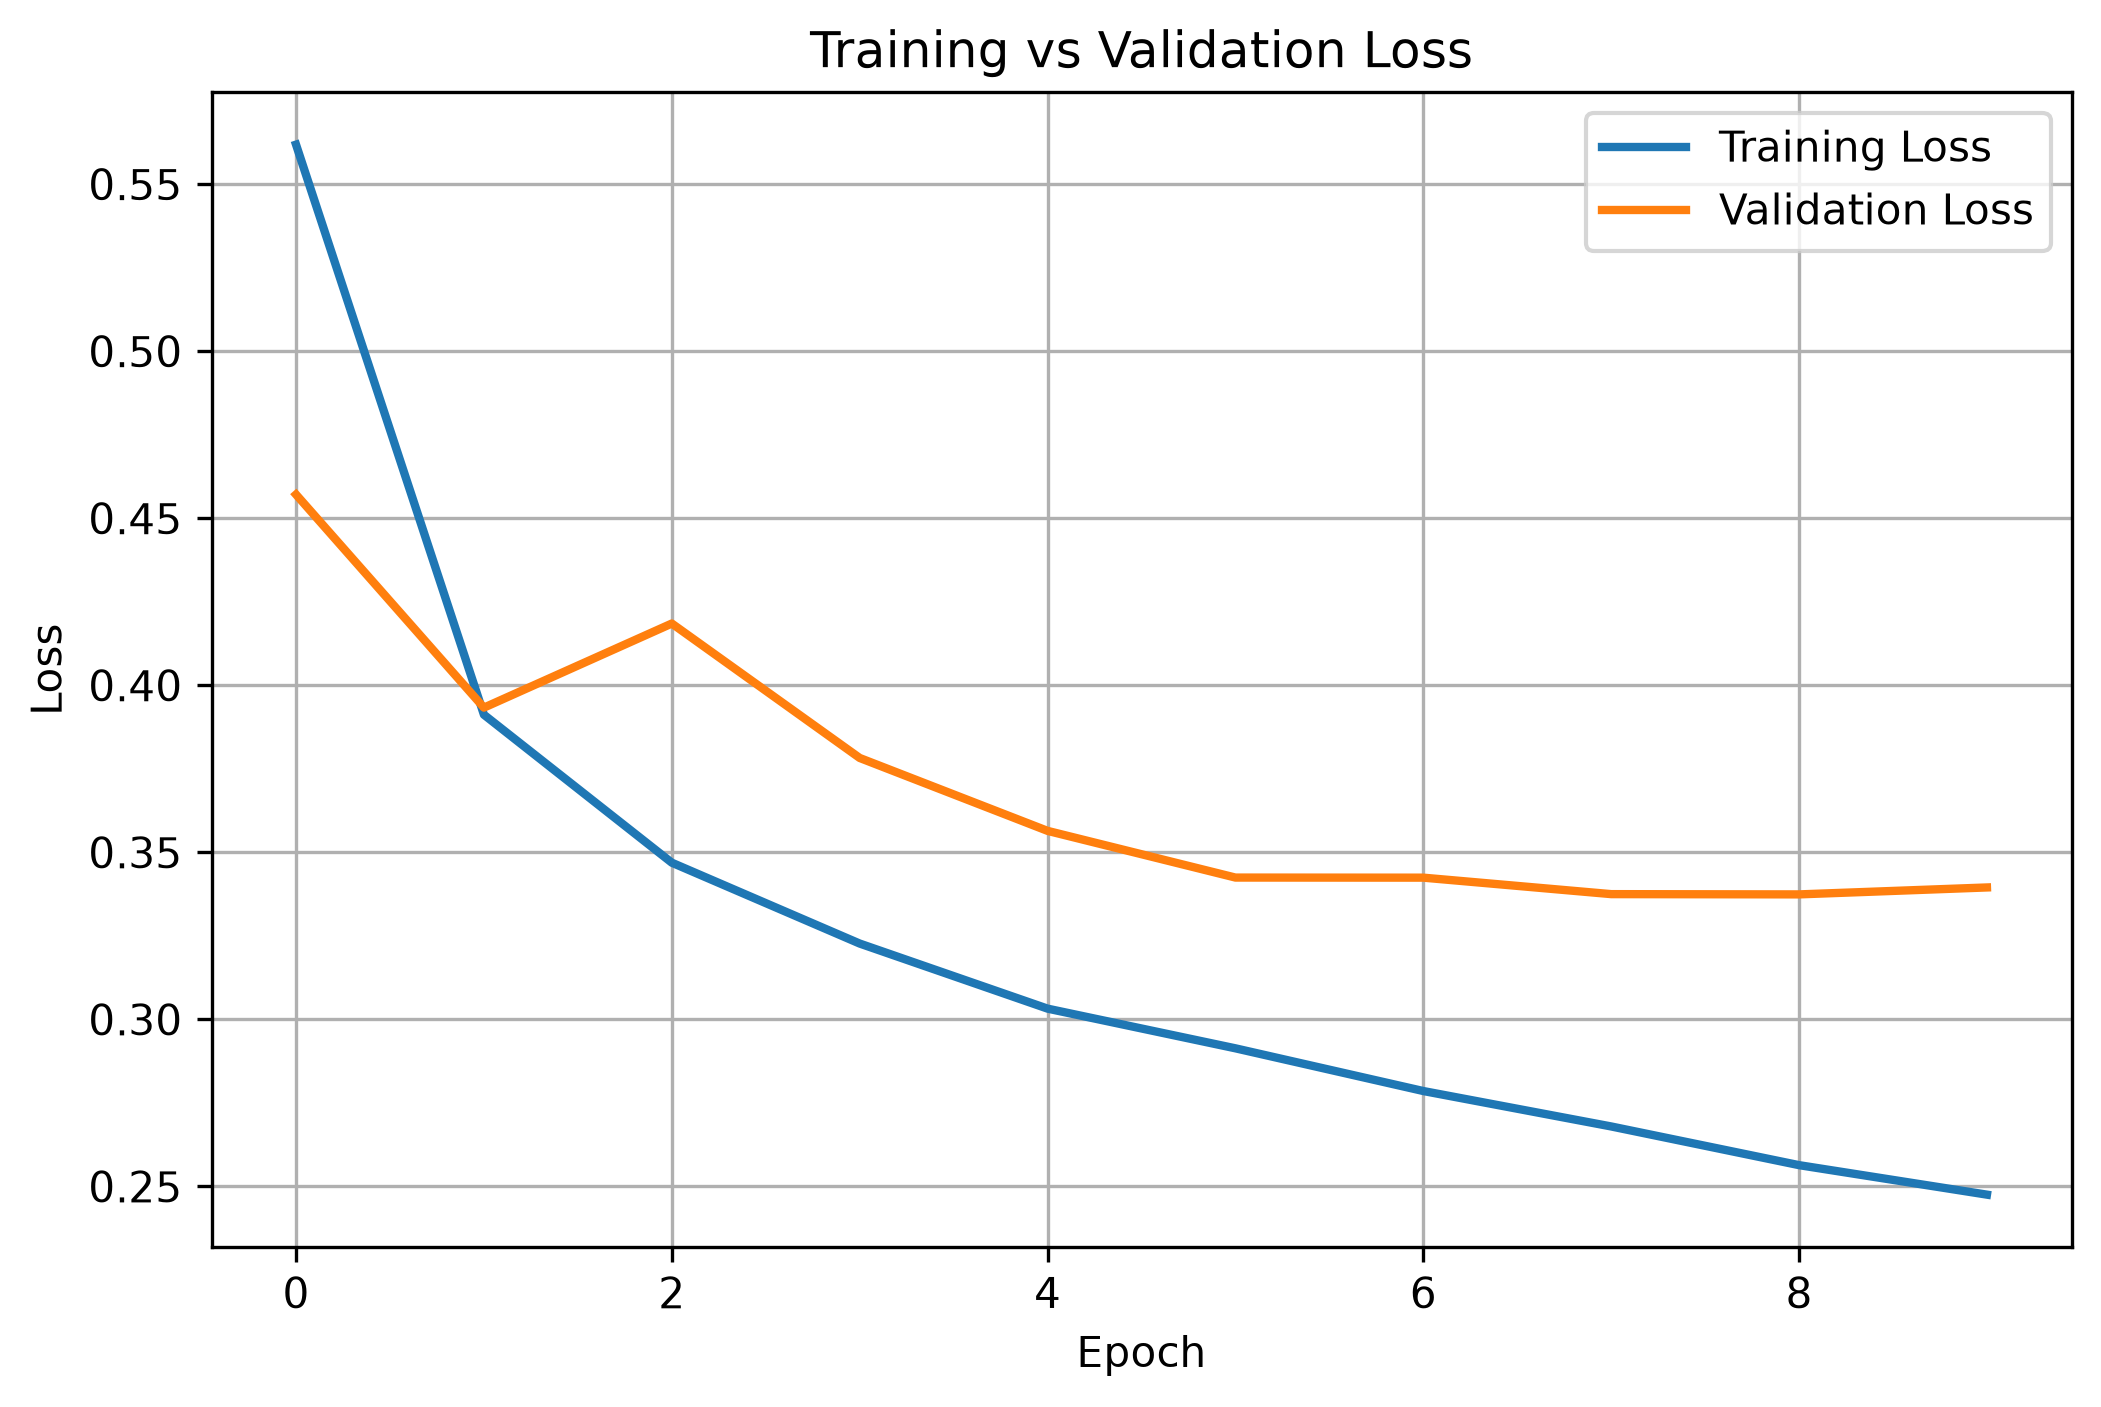
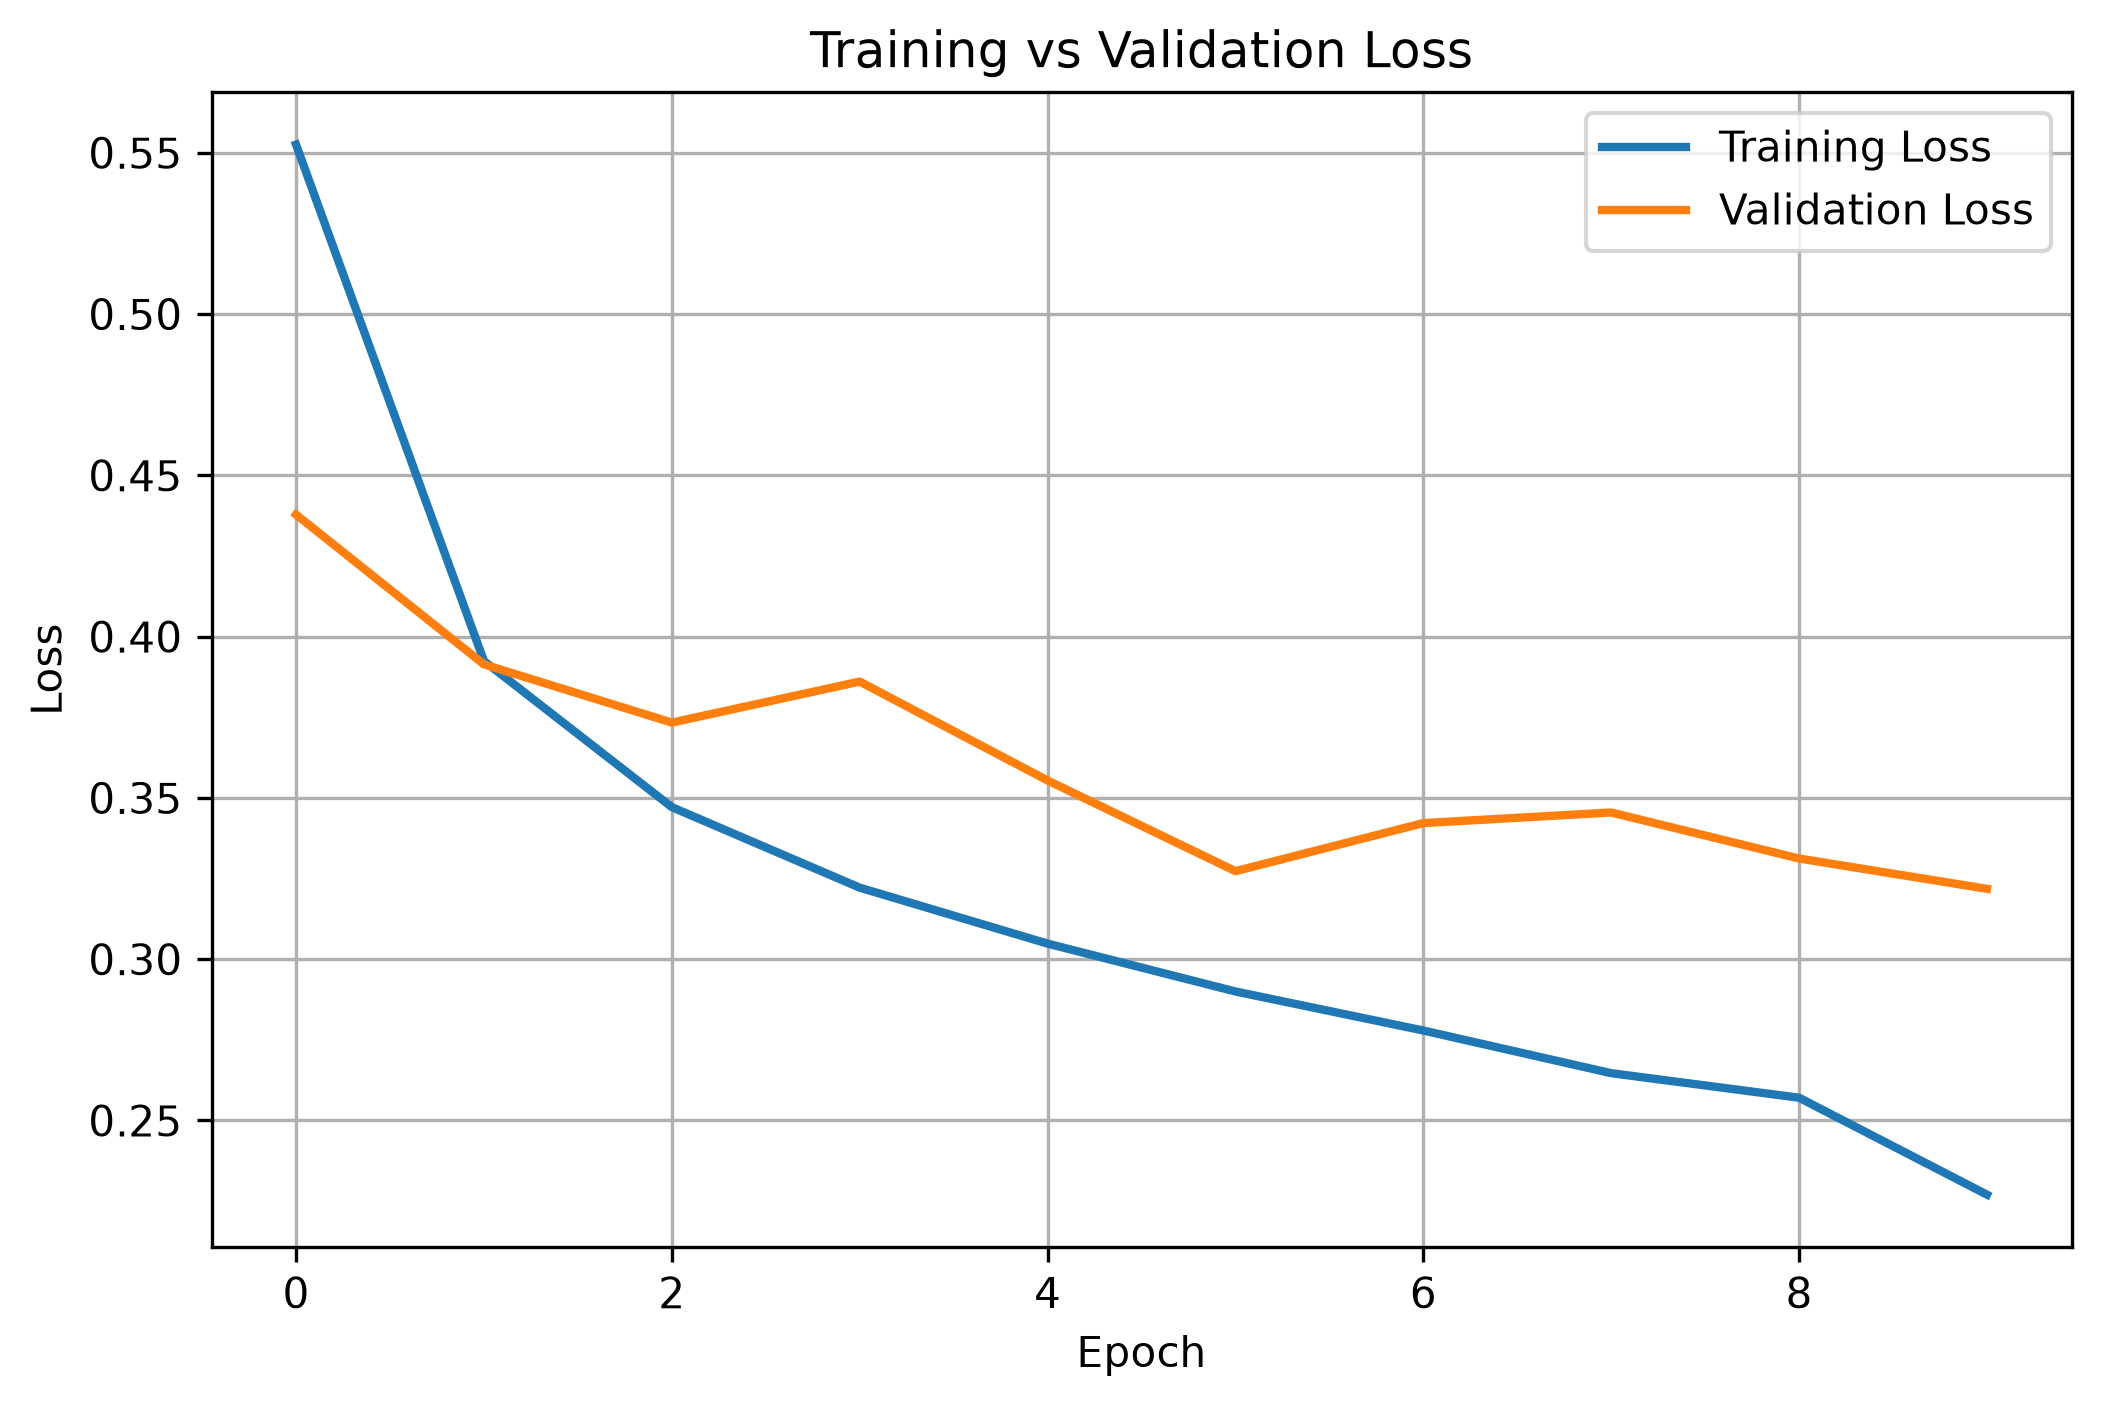
Improve logging with timestamped log files

diff --git a/Week 5/Deep-Learning/PyTorch/Fashion-MNIST Image Classification using PyTorch/src/logger.py b/Week 5/Deep-Learning/PyTorch/Fashion-MNIST Image Classification using PyTorch/src/logger.py
@@ -1,15 +1,11 @@
 """
 ============================================================
-Logging Configuration
+Project Logger
 ============================================================
 
-This module configures logging for the project.
+Creates a timestamped log file for every training run.
 
-Responsibilities
-----------------
-1. Create log directory
-2. Configure file logger
-3. Configure console logger
+Author : Mujahid Ayaz
 ============================================================
 """
 
@@ -18,35 +14,64 @@ Responsibilities
 # ==========================================================
 
 import logging
+from datetime import datetime
 
-from configs.config import PROJECT_ROOT
-
+from configs.config import LOGS_DIR
 
 # ==========================================================
-# Log Directory
+# Create Logs Directory
 # ==========================================================
 
-LOG_DIR = PROJECT_ROOT / "logs"
-
-LOG_DIR.mkdir(
+LOGS_DIR.mkdir(
     parents=True,
     exist_ok=True,
 )
 
-LOG_FILE = LOG_DIR / "training.log"
+# ==========================================================
+# Timestamp
+# ==========================================================
 
+timestamp = datetime.now().strftime(
+    "%Y-%m-%d_%H-%M-%S"
+)
+
+log_file = LOGS_DIR / f"training_{timestamp}.log"
 
 # ==========================================================
 # Logger Configuration
 # ==========================================================
 
-logging.basicConfig(
-    level=logging.INFO,
-    format="%(asctime)s | %(levelname)s | %(message)s",
-    handlers=[
-        logging.FileHandler(LOG_FILE),
-        logging.StreamHandler(),
-    ],
+logger = logging.getLogger("FashionMNIST")
+
+logger.setLevel(logging.INFO)
+
+logger.handlers.clear()
+
+formatter = logging.Formatter(
+    "%(asctime)s | %(levelname)s | %(message)s"
 )
 
-logger = logging.getLogger(__name__)
+# ==========================================================
+# File Handler
+# ==========================================================
+
+file_handler = logging.FileHandler(
+    log_file,
+    encoding="utf-8",
+)
+
+file_handler.setFormatter(formatter)
+
+logger.addHandler(file_handler)
+
+# ==========================================================
+# Console Handler
+# ==========================================================
+
+console_handler = logging.StreamHandler()
+
+console_handler.setFormatter(formatter)
+
+logger.addHandler(console_handler)
+
+logger.propagate = False

diff --git a/Week 5/Deep-Learning/PyTorch/Fashion-MNIST Image Classification using PyTorch/src/checkpoint.py b/Week 5/Deep-Learning/PyTorch/Fashion-MNIST Image Classification using PyTorch/src/checkpoint.py
@@ -12,7 +12,6 @@ PyTorch model checkpoints.
 # ==========================================================
 
 import torch
-from pathlib import Path
 
 from configs.config import MODEL_DIR
 from src.logger import logger
@@ -24,7 +23,7 @@ from src.logger import logger
 
 def save_checkpoint(model, filename="best_model.pth"):
     """
-    Saves only the model weights.
+    Save model weights.
 
     Parameters
     ----------
@@ -32,16 +31,16 @@ def save_checkpoint(model, filename="best_model.pth"):
         Trained model.
 
     filename : str
-        Name of checkpoint file.
+        Checkpoint filename.
     """
 
     checkpoint_path = MODEL_DIR / filename
 
     torch.save(
         model.state_dict(),
-        checkpoint_path
+        checkpoint_path,
     )
 
-    logger.info("Best model saved successfully.")
-
-    print(checkpoint_path)
+    logger.info(
+        f"Model checkpoint saved: {checkpoint_path}"
+    )

diff --git a/Week 5/Deep-Learning/PyTorch/Fashion-MNIST Image Classification using PyTorch/src/engine.py b/Week 5/Deep-Learning/PyTorch/Fashion-MNIST Image Classification using PyTorch/src/engine.py
@@ -299,7 +299,10 @@ def train(
                 model=model,
                 filename=model_name,
             )
-
+            logger.info(
+                f"New Best Validation Accuracy: "
+                f"{best_accuracy:.2f}%"
+            )
         # ----------------------------------------
         # Early Stopping
         # ----------------------------------------

diff --git a/Week 5/Deep-Learning/PyTorch/Fashion-MNIST Image Classification using PyTorch/configs/config.py b/Week 5/Deep-Learning/PyTorch/Fashion-MNIST Image Classification using PyTorch/configs/config.py
@@ -34,6 +34,8 @@ OUTPUT_DIR = PROJECT_ROOT / "outputs"
 # Saved model directory
 MODEL_DIR = PROJECT_ROOT / "saved_models"
 
+LOGS_DIR = PROJECT_ROOT / "logs"
+
 # ==========================================================
 # Dataset Configuration
 # ==========================================================